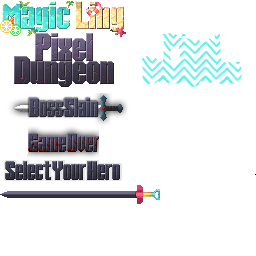
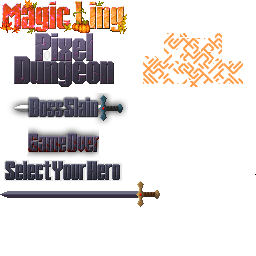
秋季主题启动

Changed region(s): [[0.5312, 0.125, 0.9688, 0.3438], [0.0, 0.0, 0.5, 0.1562], [0.5312, 0.6875, 0.625, 0.8125]]

diff --git a/core/src/main/java/com/shatteredpixel/shatteredpixeldungeon/Statistics.java b/core/src/main/java/com/shatteredpixel/shatteredpixeldungeon/Statistics.java
@@ -192,6 +192,9 @@ public class Statistics {
 	public static boolean bossRushMode = false;
 	public static boolean RandMode = false;
 
+	//噩梦循环模式
+	public static boolean NightDreamLoop = false;
+
 	public static boolean TryUsedAnmy = false;
 	public static boolean winGame = false;
 	public static boolean DwarfMasterKing = false;
@@ -232,6 +235,7 @@ public class Statistics {
 	private static final String GOLD		= "score";
 	private static final String HAPPY		= "happy";
 	private static final String RAND		= "randmode";
+	private static final String NIGHTDR		= "nightdr";
 
 	private static final String DEEPEST		= "maxDepth";
 	private static final String SLAIN		= "enemiesSlain";
@@ -399,6 +403,9 @@ public class Statistics {
 		wcDialogLevel = 0;
         bossRushMode = false;
 		RandMode = false;
+
+		NightDreamLoop = false;
+
 		RandModeCount = 0;
 
 		killYogMobsAnargy = 0;
@@ -552,6 +559,7 @@ public class Statistics {
 
 		bundle.put( HAPPY, bossRushMode);
 		bundle.put( RAND, RandMode);
+		bundle.put( NIGHTDR, NightDreamLoop);
 
 		bundle.put( BOSS_SCORES, bossScores );
 		bundle.put( TOT_BOSS,    totalBossScore );
@@ -653,6 +661,8 @@ public class Statistics {
 
 		unLockedFireDargon = bundle.getBoolean("DCXFG");
 		RandModeCount = bundle.getInt(ICECLAN);
+
+		NightDreamLoop = bundle.getBoolean(NIGHTDR);
 
 		killYogMobsAnargy = bundle.getInt("KILL_YOG");
 

diff --git a/core/src/main/java/com/shatteredpixel/shatteredpixeldungeon/scenes/TitleScene.java b/core/src/main/java/com/shatteredpixel/shatteredpixeldungeon/scenes/TitleScene.java
@@ -177,8 +177,8 @@ public class TitleScene extends PixelScene {
 			playBGM(Assets.Music.CHRAMSS, true);
 		} else {
 			Music.INSTANCE.playTracks(
-					new String[]{Assets.Music.THEME, Assets.Music.THEME_2,Assets.Music.CAVES_TENSE, Assets.Music.PRISON_BOSS},
-					new float[]{1, 1, 1, 1},
+					new String[]{Assets.Music.PRACH, Assets.BOSSDOG},
+					new float[]{1, 1},
 					true);
 		}
 
@@ -395,10 +395,6 @@ public class TitleScene extends PixelScene {
 					textColor(ColorMath.interpolate( 0xFFFFFF, Window.CBLACK,
 							0.1f + (float)Math.sin(Game.timeTotal*5)/2f));
 					text(Messages.get(TitleScene.class, "dark"));
-					Music.INSTANCE.playTracks(
-							new String[]{Assets.Music.SAND, Assets.Music.NBPL,Assets.Music.HALLS_BOSS_FINALE, Assets.Music.CITY_BOSS_FINALE},
-							new float[]{1, 1, 1, 1},
-							false);
 					icon(BadgeBanner.image(Badges.Badge.STORM.image));
 				} else if (TitleScene.Reusable){
 					textColor(ColorMath.interpolate( 0xFFFFFF, Window.CYELLOW,

diff --git a/core/src/main/java/com/shatteredpixel/shatteredpixeldungeon/actors/mobs/bosses/galaxy/SliverLockSword.java b/core/src/main/java/com/shatteredpixel/shatteredpixeldungeon/actors/mobs/bosses/galaxy/SliverLockSword.java
@@ -4,7 +4,6 @@ import com.shatteredpixel.shatteredpixeldungeon.Assets;
 import com.shatteredpixel.shatteredpixeldungeon.actors.Char;
 import com.shatteredpixel.shatteredpixeldungeon.actors.buffs.Buff;
 import com.shatteredpixel.shatteredpixeldungeon.actors.buffs.Slow;
-import com.shatteredpixel.shatteredpixeldungeon.items.Item;
 import com.shatteredpixel.shatteredpixeldungeon.items.weapon.enchantments.Unstable;
 import com.shatteredpixel.shatteredpixeldungeon.items.weapon.melee.MeleeWeapon;
 import com.shatteredpixel.shatteredpixeldungeon.sprites.ItemSprite;
@@ -12,7 +11,7 @@ import com.shatteredpixel.shatteredpixeldungeon.sprites.ItemSpriteSheet;
 import com.watabou.noosa.MovieClip;
 import com.watabou.noosa.TextureFilm;
 
-public class SliverLockSword extends MeleeWeapon implements Item.AnimationItem {
+public class SliverLockSword extends MeleeWeapon {
 
     public SliverLockSword() {
         image = ItemSpriteSheet.RGJT_2;

diff --git a/core/src/main/java/com/shatteredpixel/shatteredpixeldungeon/actors/hero/HeroClass.java b/core/src/main/java/com/shatteredpixel/shatteredpixeldungeon/actors/hero/HeroClass.java
@@ -59,6 +59,7 @@ import com.shatteredpixel.shatteredpixeldungeon.custom.testmode.SpawnMissile;
 import com.shatteredpixel.shatteredpixeldungeon.custom.testmode.SpawnRingOrWand;
 import com.shatteredpixel.shatteredpixeldungeon.custom.testmode.SpawnWeapon;
 import com.shatteredpixel.shatteredpixeldungeon.custom.testmode.TerrainPlacer;
+import com.shatteredpixel.shatteredpixeldungeon.items.Amulet;
 import com.shatteredpixel.shatteredpixeldungeon.items.BrokenSeal;
 import com.shatteredpixel.shatteredpixeldungeon.items.IceCyanBlueSquareCoin;
 import com.shatteredpixel.shatteredpixeldungeon.items.Item;
@@ -219,7 +220,7 @@ public enum HeroClass {
 		Waterskin waterskin = new Waterskin();
 		waterskin.collect();
 
-		//new AbyssBook().quantity(1).identify().collect();
+		new Amulet().quantity(1).identify().collect();
 		//new SliverLockSword().quantity(1).identify().collect();
 
 		new ScrollOfIdentify().identify();

diff --git a/core/src/main/java/com/shatteredpixel/shatteredpixeldungeon/items/weapon/melee/BoomSword.java b/core/src/main/java/com/shatteredpixel/shatteredpixeldungeon/items/weapon/melee/BoomSword.java
@@ -6,7 +6,6 @@ import com.shatteredpixel.shatteredpixeldungeon.actors.Actor;
 import com.shatteredpixel.shatteredpixeldungeon.actors.Char;
 import com.shatteredpixel.shatteredpixeldungeon.actors.hero.Hero;
 import com.shatteredpixel.shatteredpixeldungeon.actors.mobs.Mob;
-import com.shatteredpixel.shatteredpixeldungeon.items.Item;
 import com.shatteredpixel.shatteredpixeldungeon.items.bombs.ArcaneBomb;
 import com.shatteredpixel.shatteredpixeldungeon.items.bombs.Bomb;
 import com.shatteredpixel.shatteredpixeldungeon.items.bombs.Firebomb;
@@ -19,7 +18,7 @@ import com.watabou.noosa.MovieClip;
 import com.watabou.noosa.TextureFilm;
 import com.watabou.utils.Random;
 
-public class BoomSword extends MeleeWeapon implements Item.AnimationItem {
+public class BoomSword extends MeleeWeapon {
 
     public BoomSword() {
         image = ItemSpriteSheet.BOMB_SWORD;

diff --git a/core/src/main/java/com/shatteredpixel/shatteredpixeldungeon/items/artifacts/CommRelay.java b/core/src/main/java/com/shatteredpixel/shatteredpixeldungeon/items/artifacts/CommRelay.java
@@ -9,7 +9,6 @@ import com.shatteredpixel.shatteredpixeldungeon.actors.hero.Hero;
 import com.shatteredpixel.shatteredpixeldungeon.actors.mobs.npcs.MirrorImage;
 import com.shatteredpixel.shatteredpixeldungeon.items.Generator;
 import com.shatteredpixel.shatteredpixeldungeon.items.Heap;
-import com.shatteredpixel.shatteredpixeldungeon.items.Item;
 import com.shatteredpixel.shatteredpixeldungeon.items.scrolls.ScrollOfTeleportation;
 import com.shatteredpixel.shatteredpixeldungeon.messages.Messages;
 import com.shatteredpixel.shatteredpixeldungeon.scenes.CellSelector;
@@ -27,7 +26,7 @@ import com.watabou.utils.Random;
 
 import java.util.ArrayList;
 
-public class CommRelay extends Artifact implements Item.AnimationItem {
+public class CommRelay extends Artifact {
 
     {
         image = ItemSpriteSheet.DM100RELEY;

diff --git a/core/src/main/java/com/shatteredpixel/shatteredpixeldungeon/Assets.java b/core/src/main/java/com/shatteredpixel/shatteredpixeldungeon/Assets.java
@@ -322,6 +322,9 @@ public class Assets {
         public static final String CITY_BOSS_FINALE = "music/city_boss_finale.ogg";
 
 		public static final String SAND = "music/Sand.ogg";
+
+		public static final String PRACH = "music/peach.mp3";
+
         public static final String HALLS_TENSE = "music/halls_tense.ogg";
 
 		public static final String ANCITY = "music/Level_Ancity.ogg";

diff --git a/core/src/main/java/com/shatteredpixel/shatteredpixeldungeon/items/thanks/DistressSignalNesting.java b/core/src/main/java/com/shatteredpixel/shatteredpixeldungeon/items/thanks/DistressSignalNesting.java
@@ -8,7 +8,7 @@ import com.shatteredpixel.shatteredpixeldungeon.sprites.ItemSpriteSheet;
 import com.watabou.noosa.MovieClip;
 import com.watabou.noosa.TextureFilm;
 
-public class DistressSignalNesting extends Item implements Item.AnimationItem {
+public class DistressSignalNesting extends Item {
 
     {
         image = ItemSpriteSheet.SOS_0;
